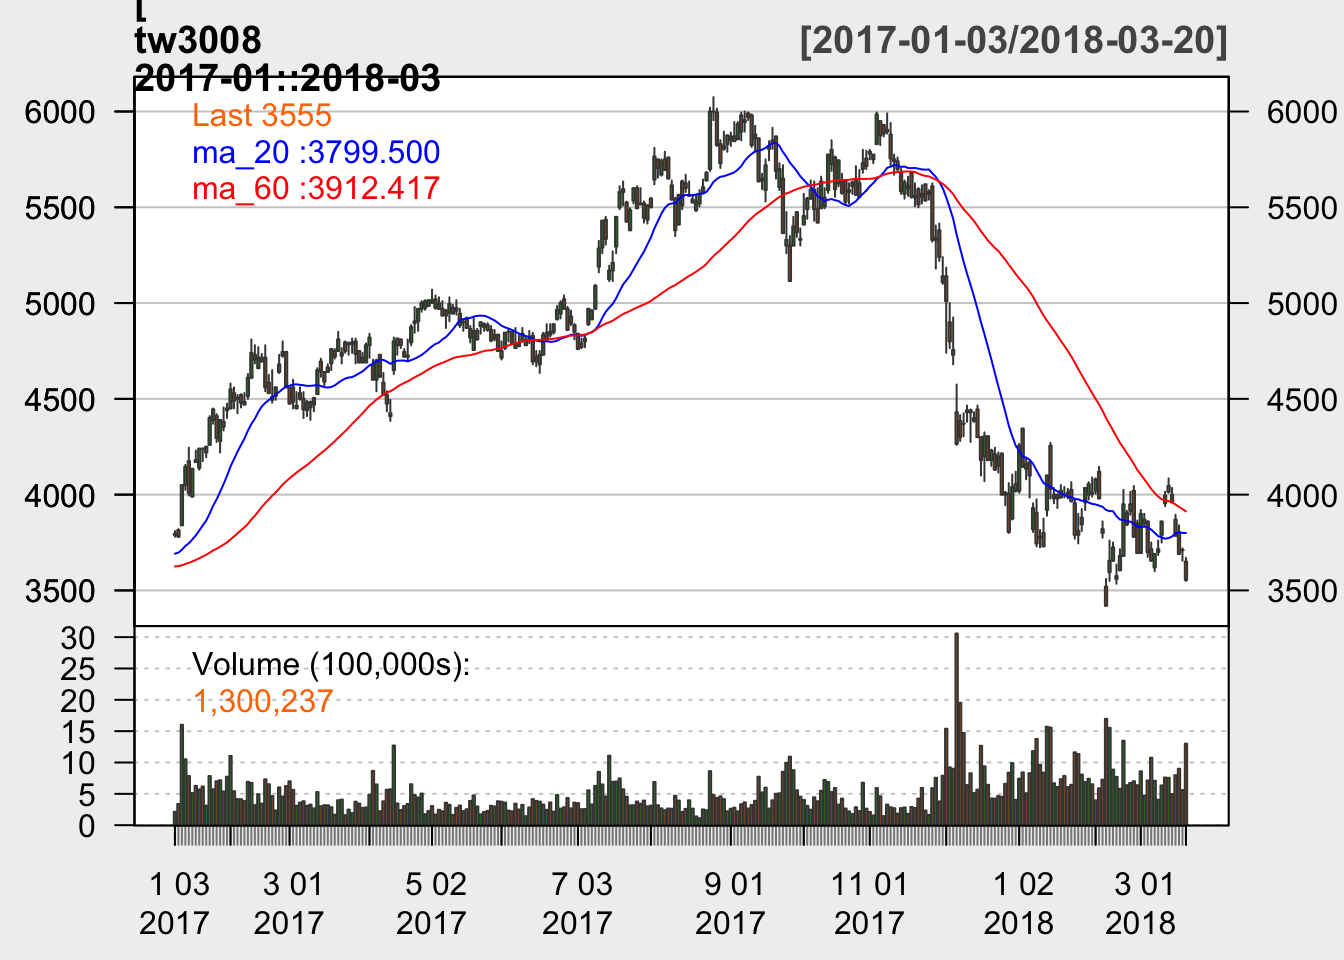
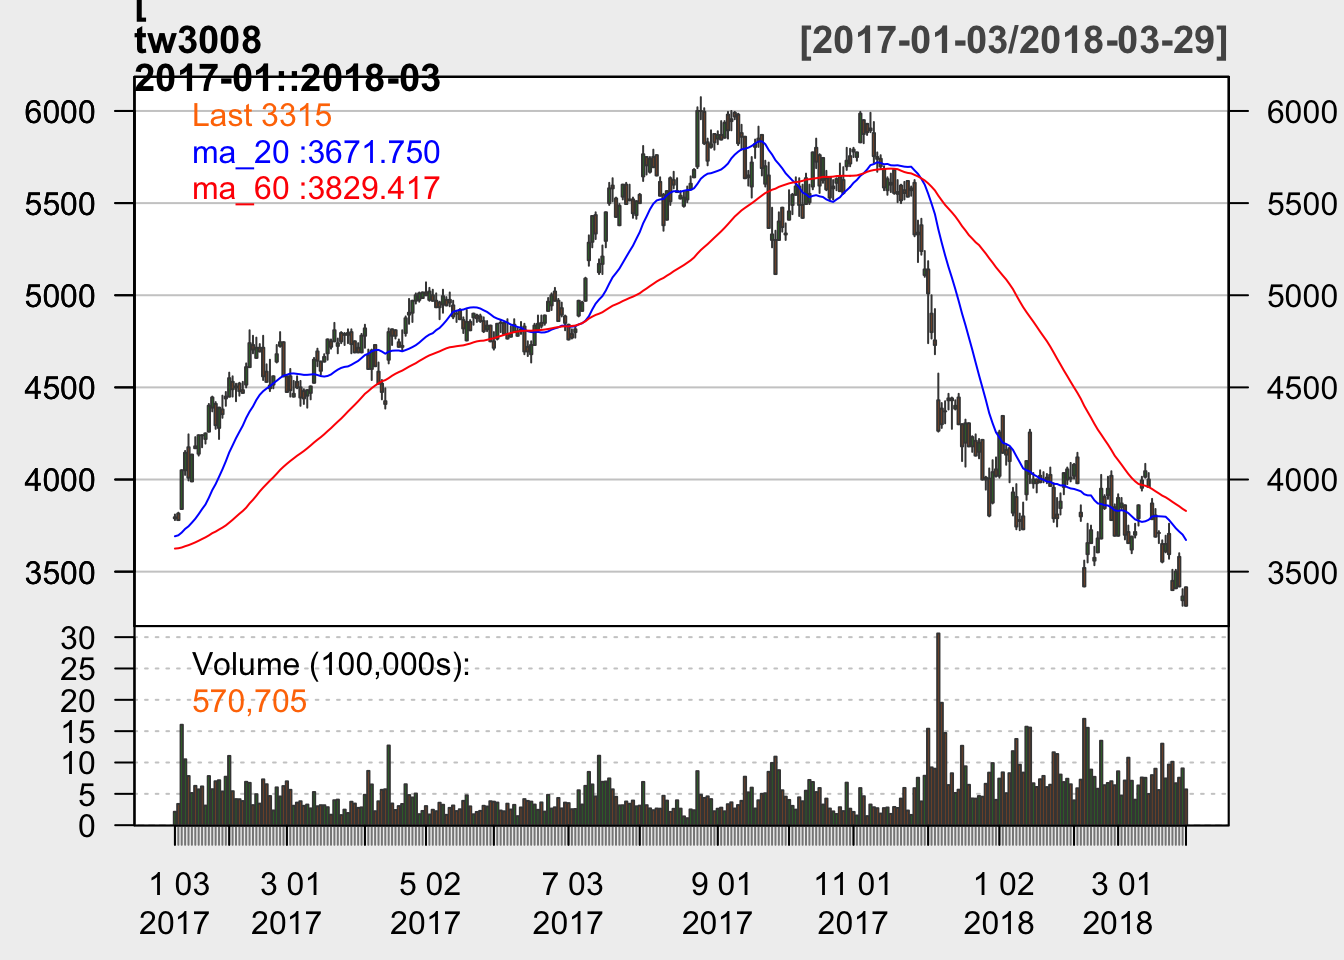
sanming

diff --git a/content/post/2018-03-20-fintech-2.html b/content/post/2018-03-20-fintech-2.html
@@ -893,19 +893,19 @@ d=getSymbols(&quot;3008.TW&quot;)   # 以大力光為例</code></pre>
 ## 2007-01-09        6718508         415.3969</code></pre>
 <pre class="r"><code>tail(tw3008)</code></pre>
 <pre><code>##            3008.TW.Open 3008.TW.High 3008.TW.Low 3008.TW.Close
-## 2018-03-13         4015         4085        4010          4045
-## 2018-03-14         4000         4035        3960          3960
-## 2018-03-15         3870         3895        3785          3785
-## 2018-03-16         3805         3840        3690          3690
-## 2018-03-19         3710         3720        3655          3710
-## 2018-03-20         3650         3670        3550          3555
+## 2018-03-22         3705         3760        3570          3595
+## 2018-03-23         3450         3510        3400          3400
+## 2018-03-26         3410         3510        3410          3500
+## 2018-03-27         3580         3600        3420          3420
+## 2018-03-28         3345         3405        3315          3365
+## 2018-03-29         3415         3415        3315          3315
 ##            3008.TW.Volume 3008.TW.Adjusted
-## 2018-03-13         755652             4045
-## 2018-03-14         496843             3960
-## 2018-03-15         798527             3785
-## 2018-03-16         900428             3690
-## 2018-03-19         560452             3710
-## 2018-03-20        1300237             3555</code></pre>
+## 2018-03-22         966628             3595
+## 2018-03-23        1011553             3400
+## 2018-03-26         669053             3500
+## 2018-03-27         757064             3420
+## 2018-03-28         905614             3365
+## 2018-03-29         570705             3315</code></pre>
 <pre class="r"><code>#包含每天開盤價(AAPL.Open)、最高價(AAPL.High)、最低價(AAPL.Low)、收盤價(AAPL.Close)、成交量(AAPL.Volume)、(還原權值)AAPL.Adjusted。</code></pre>
 </div>
 <div id="4rk" class="section level1">
@@ -984,12 +984,12 @@ addTA(ma_60,on=1,col=&quot;red&quot;)</code></pre>
 #由於我們是日資料,訊號發生時只能隔天做交易，故將這向量全部往後遞延一天
 tail(position)</code></pre>
 <pre><code>##            Lag.1
-## 2018-03-13     0
-## 2018-03-14     0
-## 2018-03-15     0
-## 2018-03-16     0
-## 2018-03-19     0
-## 2018-03-20     0</code></pre>
+## 2018-03-22     0
+## 2018-03-23     0
+## 2018-03-26     0
+## 2018-03-27     0
+## 2018-03-28     0
+## 2018-03-29     0</code></pre>
 </div>
 <div id="7roc" class="section level1">
 <h1>第7步：ROC買賣大立光股王股價策略回測</h1>

diff --git a/content/post/2018-03-15-LTU-Fintech-01.html b/content/post/2018-03-15-LTU-Fintech-01.html
@@ -76,19 +76,19 @@ getwd()</code></pre>
 ## 2007-01-10      9.380682</code></pre>
 <pre class="r"><code>tail(AAPL)</code></pre>
 <pre><code>##            AAPL.Open AAPL.High AAPL.Low AAPL.Close AAPL.Volume
-## 2018-03-13    182.59    183.50   179.24     179.97    31693500
-## 2018-03-14    180.32    180.52   177.81     178.44    29368400
-## 2018-03-15    178.50    180.24   178.07     178.65    22743800
-## 2018-03-16    178.65    179.12   177.62     178.02    39404700
-## 2018-03-19    177.32    177.47   173.66     175.30    33446800
-## 2018-03-20    175.24    176.80   174.94     175.24    19469000
+## 2018-03-22    170.00    172.68   168.60     168.85    41490800
+## 2018-03-23    168.39    169.92   164.94     164.94    41028800
+## 2018-03-26    168.07    173.10   166.44     172.77    37541200
+## 2018-03-27    173.68    175.15   166.92     168.34    40922600
+## 2018-03-28    167.25    170.02   165.19     166.48    41668500
+## 2018-03-29    167.81    171.75   166.90     167.78    37766100
 ##            AAPL.Adjusted
-## 2018-03-13        179.97
-## 2018-03-14        178.44
-## 2018-03-15        178.65
-## 2018-03-16        178.02
-## 2018-03-19        175.30
-## 2018-03-20        175.24</code></pre>
+## 2018-03-22        168.85
+## 2018-03-23        164.94
+## 2018-03-26        172.77
+## 2018-03-27        168.34
+## 2018-03-28        166.48
+## 2018-03-29        167.78</code></pre>
 <pre class="r"><code>#包含每天開盤價(AAPL.Open)、最高價(AAPL.High)、最低價(AAPL.Low)、收盤價(AAPL.Close)、成交量(AAPL.Volume)、(還原權值)AAPL.Adjusted。</code></pre>
 </div>
 <div id="4rapplek" class="section level1">
@@ -205,12 +205,12 @@ addTA(ma_60,on=1,col=&quot;red&quot;)</code></pre>
 #由於我們是日資料,訊號發生時只能隔天做交易，故將這向量全部往後遞延一天
 tail(position)</code></pre>
 <pre><code>##            Lag.1
-## 2018-03-13     1
-## 2018-03-14     1
-## 2018-03-15     1
-## 2018-03-16     1
-## 2018-03-19     1
-## 2018-03-20     1</code></pre>
+## 2018-03-22     1
+## 2018-03-23     1
+## 2018-03-26     1
+## 2018-03-27     1
+## 2018-03-28     1
+## 2018-03-29     1</code></pre>
 </div>
 <div id="7rocapple" class="section level1">
 <h1>第7步：ROC買賣APPLE股價策略回測</h1>
